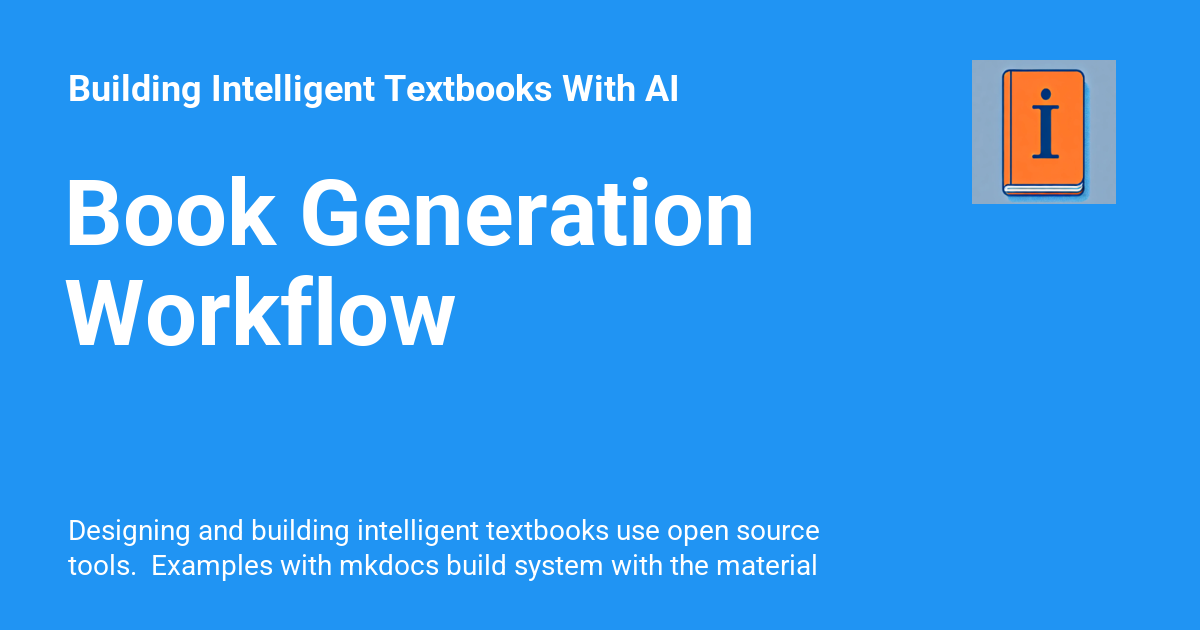
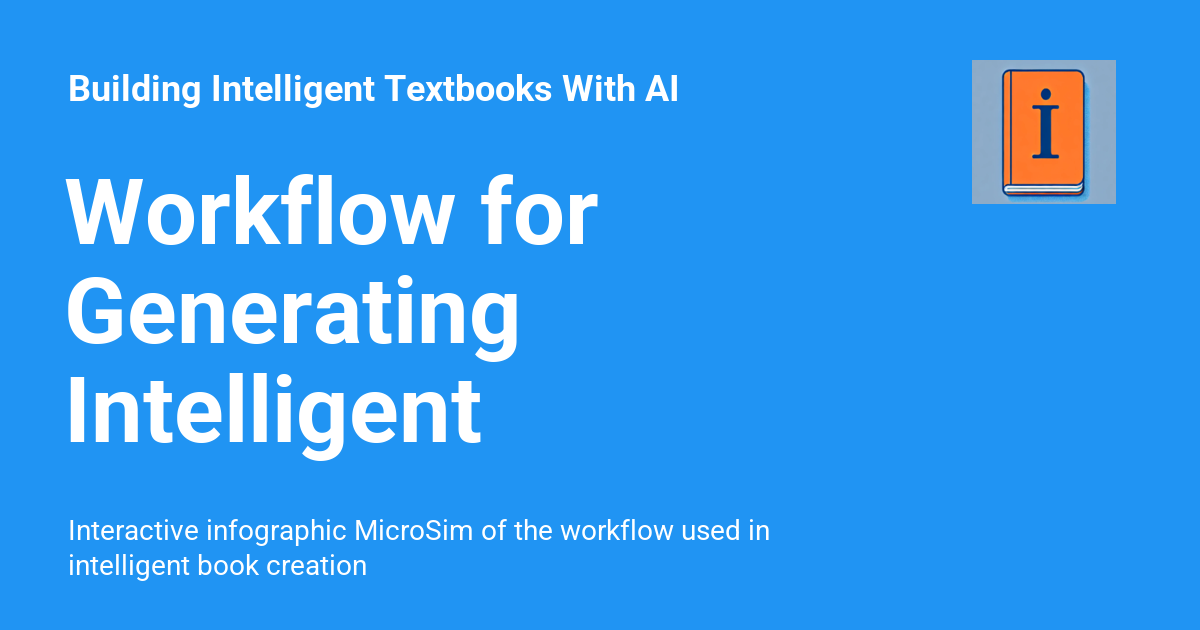
Deployed 29d465c with MkDocs version: 1.6.1

Changed region(s): [[0.0308, 0.4222, 0.4317, 0.754], [0.0617, 0.8143, 0.6783, 0.9349], [0.0308, 0.2714, 0.6475, 0.3921]]

diff --git a/sims/book-gen-workflow/index.html b/sims/book-gen-workflow/index.html
@@ -6,7 +6,7 @@
       <meta charset="utf-8">
       <meta name="viewport" content="width=device-width,initial-scale=1">
       
-        <meta name="description" content="Designing and building intelligent textbooks use open source tools.  Examples with mkdocs build system with the material theme.">
+        <meta name="description" content="Interactive infographic MicroSim of the workflow used in intelligent book creation">
       
       
         <meta name="author" content="Dan McCreary">
@@ -26,7 +26,7 @@
     
     
       
-        <title>Book Generation Workflow - Building Intelligent Textbooks With AI</title>
+        <title>Workflow for Generating Intelligent Textbooks - Building Intelligent Textbooks With AI</title>
       
     
     
@@ -73,11 +73,11 @@
       
         <meta  property="og:type"  content="website" >
       
-        <meta  property="og:title"  content="Book Generation Workflow - Building Intelligent Textbooks With AI" >
+        <meta  property="og:title"  content="Workflow for Generating Intelligent Textbooks - Building Intelligent Textbooks With AI" >
       
-        <meta  property="og:description"  content="Designing and building intelligent textbooks use open source tools.  Examples with mkdocs build system with the material theme." >
+        <meta  property="og:description"  content="Interactive infographic MicroSim of the workflow used in intelligent book creation" >
       
-        <meta  property="og:image"  content="https://dmccreary.github.io/intelligent-textbooks/assets/images/social/sims/book-gen-workflow/index.png" >
+        <meta property="og:image" content="https://dmccreary.github.io/intelligent-textbooks/sims/book-gen-workflow/book-gen-workflow.png">
       
         <meta  property="og:image:type"  content="image/png" >
       
@@ -89,11 +89,11 @@
       
         <meta  name="twitter:card"  content="summary_large_image" >
       
-        <meta  name="twitter:title"  content="Book Generation Workflow - Building Intelligent Textbooks With AI" >
+        <meta  name="twitter:title"  content="Workflow for Generating Intelligent Textbooks - Building Intelligent Textbooks With AI" >
       
-        <meta  name="twitter:description"  content="Designing and building intelligent textbooks use open source tools.  Examples with mkdocs build system with the material theme." >
+        <meta  name="twitter:description"  content="Interactive infographic MicroSim of the workflow used in intelligent book creation" >
       
-        <meta  name="twitter:image"  content="https://dmccreary.github.io/intelligent-textbooks/assets/images/social/sims/book-gen-workflow/index.png" >
+        <meta name="twitter:image" content="https://dmccreary.github.io/intelligent-textbooks/sims/book-gen-workflow/book-gen-workflow.png">
       
     
     
@@ -149,7 +149,7 @@
         <div class="md-header__topic" data-md-component="header-topic">
           <span class="md-ellipsis">
             
-              Book Generation Workflow
+              Workflow for Generating Intelligent Textbooks
             
           </span>
         </div>
